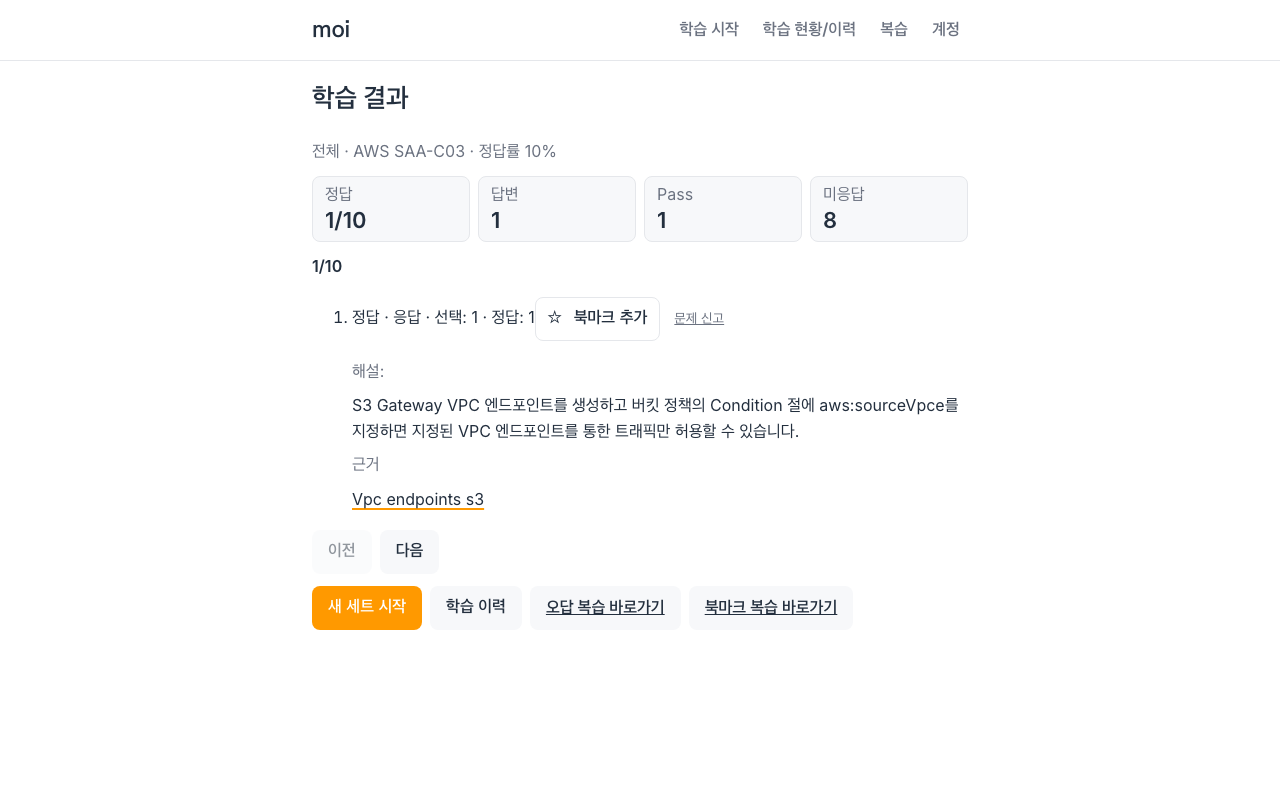
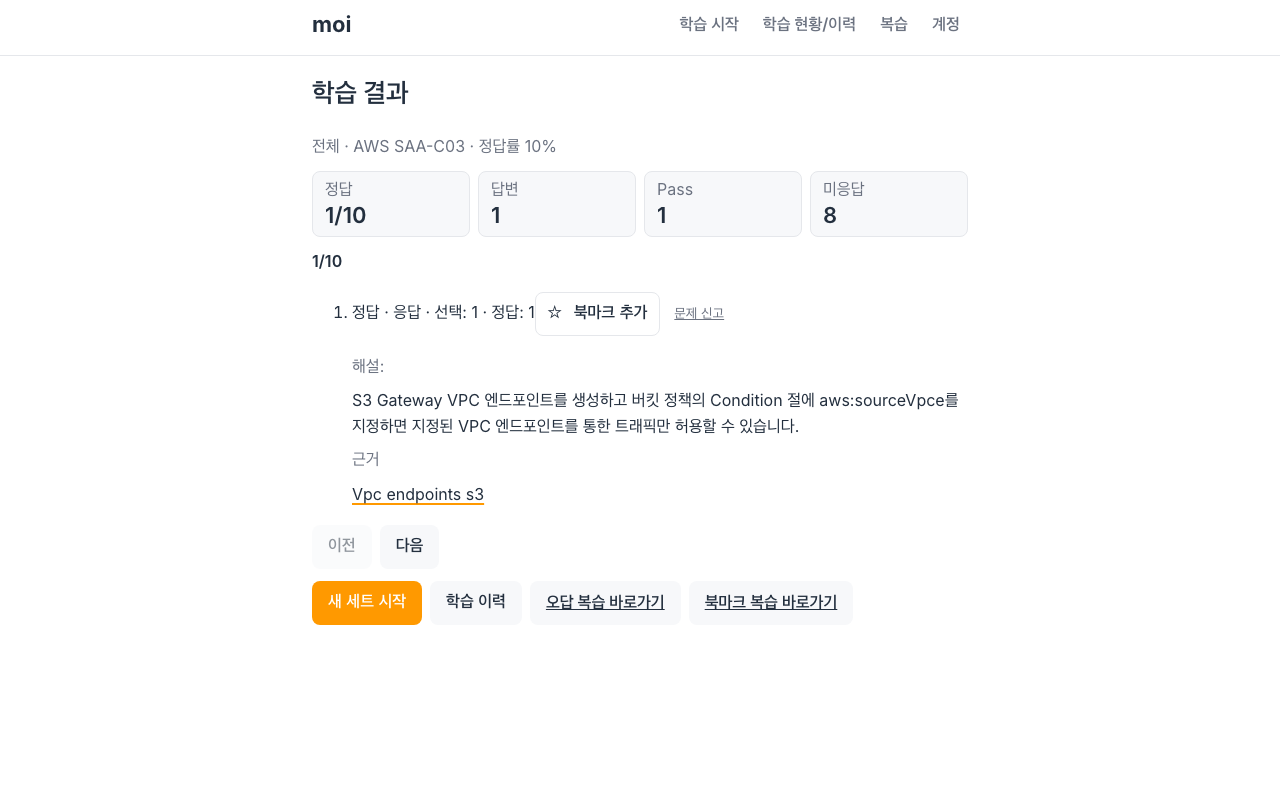
test: 터치 캡처 PNG·README를 측정 결과와 일치 (#148)

diff --git a/docs/evidence/132-screens/README.md b/docs/evidence/132-screens/README.md
@@ -1,8 +1,8 @@
 # 핵심 화면 Viewport 증거 (#132 / #148)
 
-- **캡처 기준 커밋**: `f204a898ce808847e7b568b14371ecc5106b29e0` (`f204a89`, 10문항 fixture 보정; 제품 코드 기준 `e50fe5d`, #194 병합 후 dev)
-- **측정 방식**: 로컬 `pnpm build` + `vite preview` + Playwright 결정적 Route Mock (`scripts/capture-screens.mjs`). **실계정·배포 환경 검증이 아닌 로컬 mock 증거**이며, 실제 Kakao 로그인·D1·Worker API는 호출하지 않는다.
-- **측정 일시**: 2026-10-20 14:16 KST (`results.json.generatedAt` = `2026-10-20T05:16:27.670Z`)
+- **캡처 기준 커밋**: `8a88d86979338deb48d05287daaee04266f1a2fd` (`8a88d86`, 터치 컨텍스트 coarse 기록; 제품 코드 변경 없음)
+- **측정 방식**: 로컬 `pnpm build` + `vite preview` + Playwright 결정적 Route Mock (`scripts/capture-screens.mjs`). **실계정·배포 환경 검증이 아닌 로컬 mock 증거**이며, 실제 Kakao 로그인·D1·Worker API는 호출하지 않는다. 모바일 폭(320/375/768)은 `hasTouch+isMobile` 터치 컨텍스트로 `pointer:coarse`를 매칭한다.
+- **측정 일시**: 2026-10-20 15:46 KST (`results.json.generatedAt` = `2026-10-20T06:46:29.113Z`)
 - **측정 뷰포트**: 320 / 375 / 768 / 1024 / 1280px (높이 800px, full-page 캡처)
 - **재현**: `node scripts/capture-screens.mjs` (현재 HEAD를 빌드한 뒤 촬영. 빌드 생략 시 `--no-build`)
 - **Lighthouse**: 이번 증거에서는 측정하지 않는다. 배포 URL 측정은 #132 댓글·#146 참고.
@@ -16,8 +16,8 @@
 | 화면 ID | 화면명 | 경로 | 320px | 375px | 768px | 1024px | 1280px | 최소 버튼 높이 | 가로 넘침 | 원시값 노출 |
 | --- | --- | --- | --- | --- | --- | --- | --- | --- | --- | --- |
 | `home-logged-out` | 로그아웃 홈 | `/` | [320px](./home-logged-out-320.png) | [375px](./home-logged-out-375.png) | [768px](./home-logged-out-768.png) | [1024px](./home-logged-out-1024.png) | [1280px](./home-logged-out-1280.png) | 46px (카카오) | 없음 (0px) | 없음 |
-| `home` | 홈(로그인 후) | `/` | [320px](./home-320.png) | [375px](./home-375.png) | [768px](./home-768.png) | [1024px](./home-1024.png) | [1280px](./home-1280.png) | 40px | 없음 (0px) | 없음 |
-| `study-new` | 학습 시작 | `/study/new` | [320px](./study-new-320.png) | [375px](./study-new-375.png) | [768px](./study-new-768.png) | [1024px](./study-new-1024.png) | [1280px](./study-new-1280.png) | 40px | 없음 (0px) | 없음 |
+| `home` | 홈(로그인 후) | `/` | [320px](./home-320.png) | [375px](./home-375.png) | [768px](./home-768.png) | [1024px](./home-1024.png) | [1280px](./home-1280.png) | 40px(데스크톱) / 모바일 44px | 없음 (0px) | 없음 |
+| `study-new` | 학습 시작 | `/study/new` | [320px](./study-new-320.png) | [375px](./study-new-375.png) | [768px](./study-new-768.png) | [1024px](./study-new-1024.png) | [1280px](./study-new-1280.png) | 40px(데스크톱) / 모바일 44px | 없음 (0px) | 없음 |
 | `study-active` | 풀이 중 | `/study` | [320px](./study-active-320.png) | [375px](./study-active-375.png) | [768px](./study-active-768.png) | [1024px](./study-active-1024.png) | [1280px](./study-active-1280.png) | 44px | 없음 (0px) | 없음 |
 | `study-result` | 결과(해설 포함) | `/study/result` (진입 `/study/new`) | [320px](./study-result-320.png) | [375px](./study-result-375.png) | [768px](./study-result-768.png) | [1024px](./study-result-1024.png) | [1280px](./study-result-1280.png) | 44px | 없음 (0px) | 없음 |
 | `history-empty` | 이력(0건) | `/history` | [320px](./history-empty-320.png) | [375px](./history-empty-375.png) | [768px](./history-empty-768.png) | [1024px](./history-empty-1024.png) | [1280px](./history-empty-1280.png) | N/A (버튼 없음) | 없음 (0px) | 없음 |
@@ -54,7 +54,7 @@
 
 - 9개 화면 × 5개 뷰포트 = **45개 캡처**
 - 가로 넘침: **0건**
-- 44px 미만 버튼: **20건** — 홈·학습 시작의 `10문제 학습`/`학습 이력`/`학습 시작` 버튼이 40px (각 화면·뷰포트 2개)
+- 44px 미만 버튼: **8건** — 데스크톱(1024·1280) 홈·학습 시작의 `10문제 학습`/`학습 이력`/`학습 시작` 버튼이 40px (폭별 4건씩). 모바일 터치(320/375/768, `pointer:coarse`)는 **0건** — 홈·학습 시작 모두 최소 44px.
 - UUID·`opt-`·`saa-c03`·`dom-` 원시값 노출: **0건**
 - 결과 요약은 320px에서 2×2, 768px 이상에서 4열 통계 그리드로 표시된다(#162).
 - 결과 해설은 #194에서 한 문항씩 좌우 페이징으로 표시된다. 10문항 fixture 캡처 5종에서 `1/10` 진행 표시를 확인했다. BDD는 10문항 fixture에서 위치를 `\d+` 정규식으로 확인할 뿐 `1/10`을 직접 단언하지 않는다.
@@ -65,7 +65,7 @@
 
 | # | 항목 | 내용 | 후속 |
 | --- | --- | --- | --- |
-| 1 | 44px 미만 터치 타깃 | 홈·학습 시작의 주요 버튼이 40px로, 45개 캡처 중 20건이 44px 미만이다. | 디자인 계약 기준 판단·후속 수정 |
+| 1 | 44px 미만 터치 타깃 | 데스크톱(1024·1280) 홈·학습 시작의 주요 버튼이 40px로, 45개 캡처 중 8건이 44px 미만이다. 모바일 터치(320/375/768)는 coarse 매칭으로 44px이며 0건이다. | 디자인 계약 기준 판단·후속 수정 |
 | 2 | API 오류 상태 미촬영 | 북마크·답안 저장·통계 API를 모두 200으로 mock해 `다시 시도` 오류 UI가 캡처되지 않았다. | 오류 상태 전용 캡처·터치 타깃 점검 |
 | 3 | 실계정·배포 검증 아님 | 로컬 결정적 mock이며 Kakao 로그인·D1·Worker·CDN 환경을 검증하지 않는다. | 배포 smoke(#131/#146) |
 | 4 | Lighthouse 미측정 | 이번 캡처는 시각 증거만 다룬다. | 배포 URL Lighthouse 기록(#146) |
@@ -76,6 +76,6 @@
 
 ## 3. 변경 요약
 
-- `scripts/capture-screens.mjs`: fixture를 3문항에서 10문항으로 보정했다. 기존 대표 3문항·출처·Pass/미응답 의미를 유지하고, 신규 7문항을 중복 ID 없이 추가했으며, 제출 흐름의 `문제 2/10` 대기를 반영했다. 제품 코드·BDD·API 변경은 없다.
-- `results.json`: 캡처 기준 커밋 `f204a89`로 45개 측정값을 갱신했다.
-- 스크린샷: 9개 화면 × 5개 뷰포트를 재생성했다. `study-active`·`study-result` 5종이 `1/10`로 갱신됐다.
+- `scripts/capture-screens.mjs`: fixture를 3문항에서 10문항으로 보정했다. 기존 대표 3문항·출처·Pass/미응답 의미를 유지하고, 신규 7문항을 중복 ID 없이 추가했으며, 제출 흐름의 `문제 2/10` 대기를 반영했다. 모바일 폭(320/375/768)은 터치 컨텍스트(`hasTouch+isMobile`)로 `pointer:coarse`를 매칭한다. `fullPage:true` 캡처가 터치 coarse 렌더링을 유실(DOM 44px→PNG 40px)해 전체 높이 뷰포트 리사이즈 후 viewport 캡처로 전환했다. 제품 코드·BDD·API 변경은 없다.
+- `results.json`: 캡처 기준 커밋 `8a88d86`으로 45개 측정값을 갱신했다. `below44` 8건은 데스크톱만(1024·1280 각 4건), 모바일 터치는 0건이다.
+- 스크린샷: 9개 화면 × 5개 뷰포트를 재생성했다. `study-active`·`study-result` 5종이 `1/10`로 갱신됐다. `review-*`·`study-result-*`의 화면 변화는 #199(복습·결과 보조텍스트 16px, `f05ca0f`)에서 오며 #201(ResultView 이동)이 아니다.
